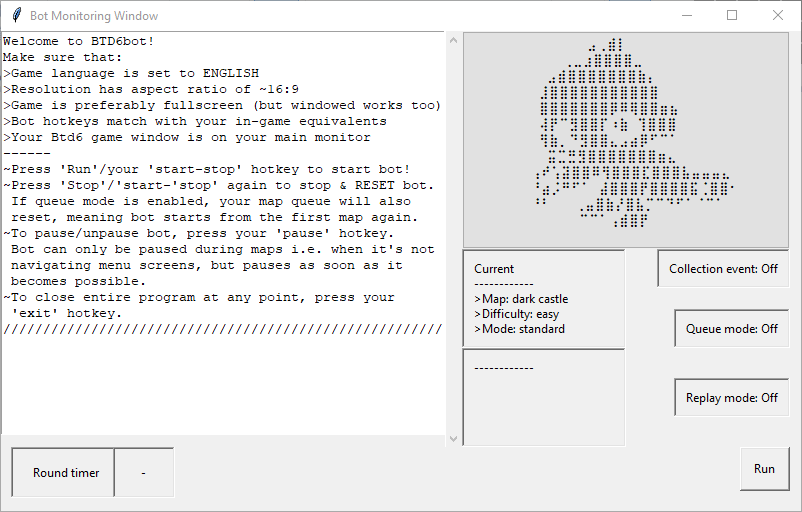
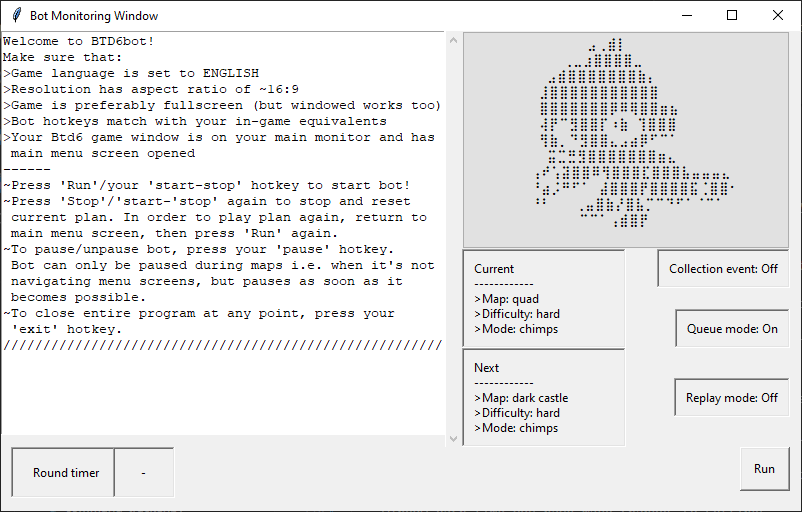
Update contents

diff --git a/btd6bot/Files/helpwindow/README.md b/btd6bot/Files/helpwindow/README.md
@@ -10,11 +10,17 @@ It includes a simple graphical user interface (**gui**): not impressive visually
 Support for multiplayer/competitive modes such as races, bosses, contested territory, boss rush, etc. will not be 
 added.
 
-**If you have any questions/suggestion/bugs to report, feel free to create a new issue on Github.** 
+Bot is somewhat complex and has been tested pretty thoroughly. Still, you may encounter bugs.
+**If you have any questions/suggestion/bugs to report, feel free to create a new issue on Github.**  
+Another things is **random outcomes** i.e. **rng**, which cannot be entirely removed. So if you plan to use bot to obtain *Chimps
+black medals* on harder advanced/expert maps, it could take a few tries on each map before getting a succesful run.
+
 
 ---
 **[Update status]  
 Updated for Bloons TD 6 version ``48``**
+- For now, bot is planned to be updated for each major game update (next being update ``49``)
+- Other than that, some new game plans might be added infrequently.
 
 **[OS support]  
 Tested only on Windows operating systems**
@@ -54,28 +60,30 @@ you can always run the bot offline. <u>You have been warned</u>.***
 
 # <u>Features</u>
 
-- [Tested on update ``48``, ``1920x1080`` , ``fullscreen``]  
-Plans for **all expert maps on chimps difficulty are included, making black medals obtainable.** Note that some maps
-can include rng and you might need to retry them a few times.
+- [Tested on update ``48``, ``1920x1080`` , ``fullscreen``, with around ``144`` constant fps]  
+Plans for **all expert maps on chimps difficulty are included, making black medals obtainable.**
 
 - Graphical user interface, made with Python&#39;s build-in Tkinter library. Very simplified when it comes to visuals,
 but easy to use. Here are some of the properties:
 
     - set bot hotkeys
-    - change various settings: display resolution, windowed mode, auto-update in-game esc settings, and several more
-    - run a single plan or customize a queue of plans
+    - change display settings to match your in-game settings like custom resolution or windowed mode
+    - run a single plan or create a customized queue of plans
     - see info for currently selected plan if available
-    - record round times and afterwards, check the time graph with &#39;Show plot&#39; button
-    - see all the printed text bot produces during runtime inside the monitoring window, etc.
+    - auto-record round times and check the generated time graph with &#39;Show plot&#39; button
+    - see all the printed text that bot outputs during runtime, etc.
  
     For gui images and in-depth look on all features, see [GUI windows](#gui-windows) section.
  
 - Support for various resolutions settings:
 
     - **16:9** aspect ratio + **fullscreen/windowed fullscreen** (*recommended*)
-    - **16:9** aspect ratio + **windowed mode**. Btd6 must be run with ``-popupwindow`` launch argument to remove windowed border. This sets game window in the middle of screen, leaving empty space to sides. Window cannot be moved  (*works, but decreasing window size too much could reduce bot&#39;s text reading accuracy*)
+    - **16:9** aspect ratio + **windowed mode**. Btd6 must be run with ``-popupwindow`` launch argument to remove 
+    windowed border. This sets game window in the middle of screen, leaving empty space to sides. Window cannot be moved
+    (*works, but decreasing window size too much could reduce bot&#39;s text reading accuracy*)
     - aspect ratio **greater than 16:9** + **fullscreen**, but game events must occur in an area with **16:9** aspect ratio.
-    For example, with ``3440x1440``, the actual game screen area is ``2560x1440`` which has exactly 16:9 ratio (*should work, but similarly to windowed mode, could face some accuracy issues*)
+    For example, with ``3440x1440``, the actual game screen area is ``2560x1440`` which has exactly 16:9 ratio (*should
+    work, but similarly to windowed mode, could face some accuracy issues*)
 
 - Support for creating custom plans files. Plans include all the commands bot performs on each round until a map 
 finishes. 
@@ -88,13 +96,13 @@ finishes.
     - A plan template is provided which can then be copied and modified. Furthermore, the *command_tracker* tool is 
     specifically designed for plan creation.
 
-    See [Creating a new plan file](#Creating_a_new_plan_file) section for more info.
+    See [Creating a new plan](#creating-a-new-plan) section for more info.
 
 - Extensive bot library with build-in gui support, which can also operate independently. Uses optical character reading
 (ocr) and kb+mouse to update bot state.  
 While library code is thoroughly documented, it still benefits from a short
-guide. [Update the bot](#update-the-bot) section is devoted to this topic and provides the baseline for
-adding new content.
+guide. [Updating the bot](#updating-the-bot) section is devoted to this topic and provides the baseline for
+adding new content if this page no longer receives updates.
 
 # <u>Installation</u>
 First you need to install [Python](https://www.python.org/downloads/).  
@@ -145,8 +153,8 @@ To run ``BTD6bot``, try <u>one</u> of the following:
 - Open your BTD6bot folder, then run the ``run.bat`` file
 - Open command terminal, set current directory to ``<your path>/btd6bot`` then type ``py btd6bot `
 
-If you managed to run BTD6bot, then the window similar to above should have opened.
-There&#39;s plenty of stuff in here, but for now focus is on getting the bot to work properly.  
+If you managed to run BTD6bot, then a window similar to above should have opened.
+There&#39;s plenty of stuff in here, but for now focus is on getting the bot to work properly in your system.  
 <u>Following steps must be done in order to make bot work properly for each user</u>:  
 
     1. Update bot hotkeys
@@ -454,7 +462,7 @@ background had other elements like snow. With upgrade texts, background is
 always the same.
 - upgrade costs would need to be updated in a separate file after each update. 
 This is not really a big deal, but adds one extra layer of active maintenance.
-- Upgrading would need to performs additional checks for discounted prices e.g. monkey in range of 0-0-1+ village.
+- Upgrading would need to performs additional checks for discounted prices e.g. monkey in range of ``0-0-1+`` village. This problem can be complety ignored now.
 ---
 
 | ![](docs/images/monitoring/monitoring_adjustbegin.PNG) |
@@ -492,10 +500,10 @@ adjusting may begin.
 
 | ![](docs/images/monitoring/monitoring_adjustend.PNG) |
 |:--:|
-| *Adjusting process complete*|
+| *Adjusting process complete. Current monitoring window must be closed in order to continue.*|
 
 And if everything worked, you should now have updated all delta values for your current monitor resolution. This means
-your bot is ready to run!
+your bot is ready to be tested with an actual plan.
 
 To run your first plan, it&#39;s recommended to pick something simple. Close the monitoring window and select either
 ``[monkey meadow, easy-standard]`` or ``[dark castle, easy-standard]`` in main window:
@@ -576,7 +584,7 @@ doing
 
 | ![](docs/images/main/main_modified.PNG) |
 |:--:|
-| *Main window, with ocr already initialized. Currently selected plan is bloody_puddlesHardChimps, collection event and replay modes enabled.*|
+| *Main window, with ocr already initialized. Currently selected plan is bloody_puddlesHardChimps, with collection event and replay modes enabled.*|
 
 - Responsible for running the program: if closed, entire program closes.
 - Includes buttons for other windows (Help, Settings, Hotkeys, Queue, Monitoring)
@@ -619,7 +627,7 @@ i.e. selected map + strategy combination. Info is stored in each plan file and c
 
 | ![](docs/images/help/help.PNG) |
 |:--:|
-| *Help window, expanded to fullscreen. It displays the same README.md contents, but links don&#39;t work*|
+| *Help window, expanded to fullscreen. It displays the same README contents, however none of links are in working condition*|
 
 - Help window displays the document you&#39;re currenly reading (either in web browser or inside gui help window). 
 It&#39;s meant for offline mode in case you don&#39;t have access to web
@@ -644,13 +652,15 @@ or reopening the Main window, this file gets deleted again!
 
 | ![](docs/images/queue/queue.PNG) |
 |:--:|
-| *Queue window with dark_dungeonsHardChimps plan inserted in queue. When a plan is selected, its info panel is displayed.*|
+| *Queue window with dark_dungeonsHardChimps placed in queue. When a plan is selected, its info panel is displayed.*|
 
 - Shows all existing plans and currently selected plan queue. When a plan is selected, its info panel is also displayed.
 Info texts are exactly the same you see on main window page.
 - You can use the 'Add' and 'Remove' buttons to add new/remove existing plan in queue. These also have supported
 hotkeys: 'a' for add, 'r' for remove.
+- Has a search box for all available plans. This makes it easier to find specific plans by using keywords such as map name, difficulty or game mode.
 - When queue mode is toggled on, bot will use this plan queue instead of currently selected plan in main window.
+
 
 
 ## Hotkeys
@@ -697,7 +707,8 @@ which was already introduced when setting up the bot first time.
 
     Therefore, **it&#39;s always recommended you use fullscreen if possible.**
 
-    However, windowed mode should be for [ultrawide resolutions or those with greater than 16:9 aspect ratio](#ultrawide-resolutions).
+    However, windowed mode should be for 
+    [ultrawide resolutions or those with greater than 16:9 aspect ratio](#ultrawide-resolutions).
 
 - **Game version**: 
     Current major game patch version. If version is 48, 48.1, 48.2 etc. just use 48. This value is used to update plan
@@ -708,16 +719,6 @@ which was already introduced when setting up the bot first time.
     reaching this limit, it behaves as usual: if a single plan, bot finished; if queue mode enabled, moves onto next
     plan. It&#39;s recommended to keep these value somewhere around 5 as some expert maps in particular have rng and
     can fail once or twice before getting over the problematic round(s).
-
-- **Update** esc menu settings automatically**:
-    When bot enters a map first time in current session, it will automatically verify all required in-game menu settings
-    are enabled. These are: drag & drop, disable nudge mode, auto start.
-
-- **Record round times and update plan version**: 
-    Record all round times during plan execution and updates them in time_data.json. Current version value is also
-    stored. Data is only saved if plan finishes and bot returns to menu normally by finding the victory screen. Time
-    data is used under 'Show Plot' whereas version is used in plan info panel as a confirmation that this plan can be
-    finished on current game version.
 
 **(Advanced)**
 
@@ -766,16 +767,16 @@ on trying, these texts must be as precisely readable as possible. For upgrades, 
 
 | ![](docs/images/monitoring/monitoring.PNG) |
 |:--:|
-| *Monitoring window, with plan dark_castleEasyStandard selected, no extra modes enabled.*|
+| *Monitoring window, with queue mdoe enabled. Current plan is quadHardChimps, with dark_castleHardChimps coming after.*|
 
 - Loads all settings set in other windows and initializes the bot. User can then run the bot by simply pressing
  &#39;Run&#39; button or the start-stop hotkey (which can be customized under gui hotkeys), and bot starts to search for
 Btd6 main menu screen. After menu screen is found, bot then begins it&#39;s current loop. 
 
     >Most settings (like resolution) and hotkey values, are updated immediately to current monitoring window. But any
-    toggleable modes and current map+strat/queue maplist, will only get updated after you close and reopen this window.
+    toggleable modes and current plan list, will only get updated after you close and reopen this window.
     If you want to be 100% certain your setting are up to date after any changes, just close and reopen monitoring
-    window after each time you have change settings.
+    window each time you have made changes to settings.
 
 - Has a output window where all printed text is redirected during bot runtime. This way, it&#39;s easy to follow what
 the bot is currently doing. Not all text is displayed because it would clutter the print window. To enable extra text 
@@ -783,6 +784,16 @@ for ocr outputs, check Settings window on advanced section and toggle delta/subs
 
 - Displays current plan, and if queue mode is on, next plan in queue. Also displays any toggled modes from main window
 as On/Off.
+
+- If queue mode is enabled, uses queue discard system: when a plan is finished(*), it is removed from loaded plan queue.
+Then, if you stop the bot and run it again, it continues from the plan it left on and does not reset the entire queue
+until you close current monitoring window. When all plans are finished, run button displays 'Repeat queue' instead.
+When you press it, plan queue resets and begins running all plans in same order again.
+
+    (*) finished means plan was either *succesfully finished* or it *could not be completed within set amount of 
+    retries*.
+
+    - Also, when plan queue is finished, a success rate percentage is displayed. Furthermore, each plan name, their success status ('success'/'failed') and amount of attemps out of total if status is 'success' are also printed.
 
 - Displays round timer for current round; not 100% accurate, but still quite good and very useful for adjusting ability
 timings when new plans are created.
@@ -857,6 +868,10 @@ it has stayed the same to this day.
     | | | Alternate|
     | | | Impoppable|
     | | | Chimps |
+
+    (**Optional**) if plan with same map, difficulty and game mode exists and you want to make another on same settings,
+    simply add number 2-9 at the end. This means you can have up to 9 different plans on same setting.  
+    *Example*: cubismHardStandard, cubismHardStandard2, cubismHardStandard3, ..., cubismHardStandard9, *are all valid*. 
 
 <u>Examples for each game mode:</u>
 
@@ -1302,7 +1317,7 @@ You should also use a code editor like VS Code for optimal experience.
 
 ---
 
-btd6bot source folder looks like this:
+``btd6bot`` source should look like this:
 
     _ocr_tests
     bot
@@ -1322,17 +1337,17 @@ heroes.
 was added and you wanted to create a plan for it on *hard, standard* then simply name the plan file 
 ``bloons_mapHardStandard.py``.
 
-- For major changes, like new additions to ui, some big changes in bot code could be required. However, because changes
+- For major changes, like new additions to game's ui, some bigger changes in bot code could be required. However, because changes
  like these are too vague to be descripted under set rules, they are not covered here and each case must be handled 
  individually.
 
 Bot and files directory can be summed shortly:
 
 - ``bot`` contains the entire bot library which is responsible of all in-game bot actions. It includes the logic for
- menu navigation, round and defeat checks, time flow, kb and mouse controls. Also includes commands and all the ocr
+ menu navigation, round and defeat checks, time flow, kb and mouse controls. Also implements all bot commands used in plan files, and required ocr
   functions.
 
-- ``Files`` includes all the non-Python files and store various pieces of data. Only upgrade ocr template and hotkeys
+- ``Files`` includes all the non-Python files gui and bot need. Only upgrade ocr template and hotkeys
  need to be updated.
 
 So, only files you likely need to modify are
@@ -1465,10 +1480,8 @@ So, only files you likely need to modify are
           0.5
         ]
 
-    To summarize:
-
-    1. type monkey name and upgrade crosspath: each such string forms a key
-    2. under each key is a value: this value is a list object with 2 entries.
+    1. each dictionary key is a string of monkey name and upgrade crosspath: each such string forms a key
+    2. under each key is a list object with 2 entries.
         - first is <u>upgrade path name</u>; copy the names from in-game upgrades and **try to avoid typos**: one wrong 
         letter is mostly fine, but multiple can cause problems with ocr.
         - second is <u>delta value</u>: because this file is just a template, these are just default placeholder values. 
@@ -1560,6 +1573,6 @@ This in in fact the only mandatory step for adding heroes. However, if hero uses
 
     - add a new method, name it in a way that describes it well, but is relatively short 
     (e.g. ``shop`` for Geraldo, ``spellbook`` for Corvus)
-    - implement any other requires internal methods (e.g. ``prepare_hero_menu`` for Gerald and Corvus)
-    - **(Optional)** Add pause flag, cpos checks so method can be used in maps with changing locations; see other 
+    - implement any other requires internal methods (e.g. ``prepare_hero_menu`` for Geraldo and Corvus)
+    - **(Optional)** Add pause flag, cpos checks so method can be used in maps with changing positions; see other 
     existing methods for examples.
